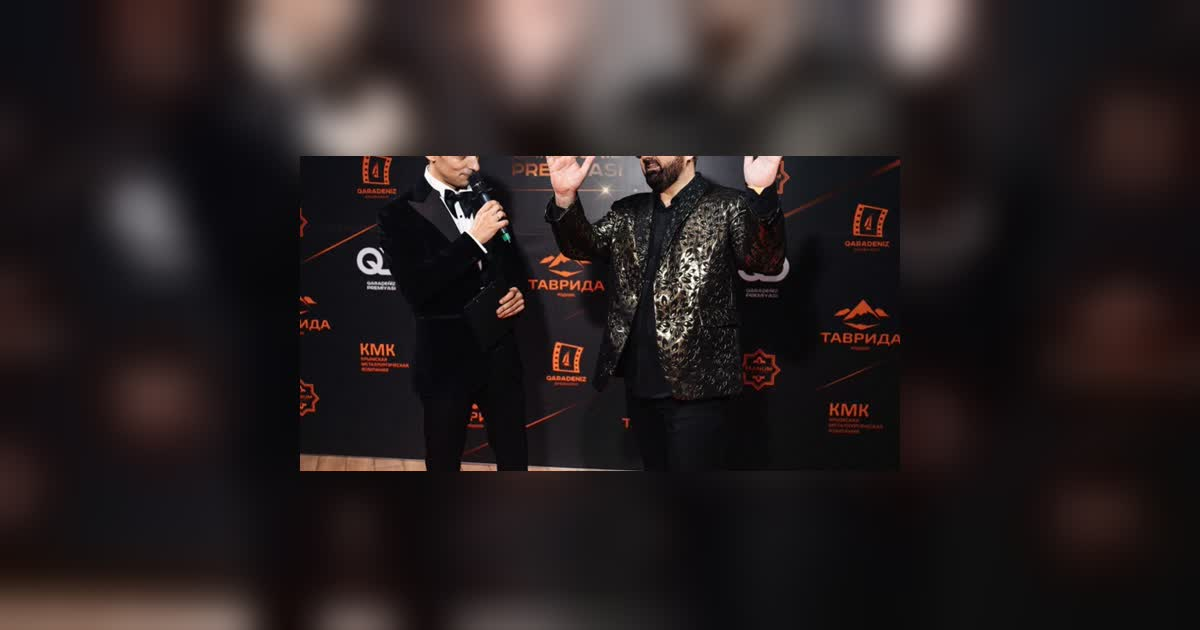
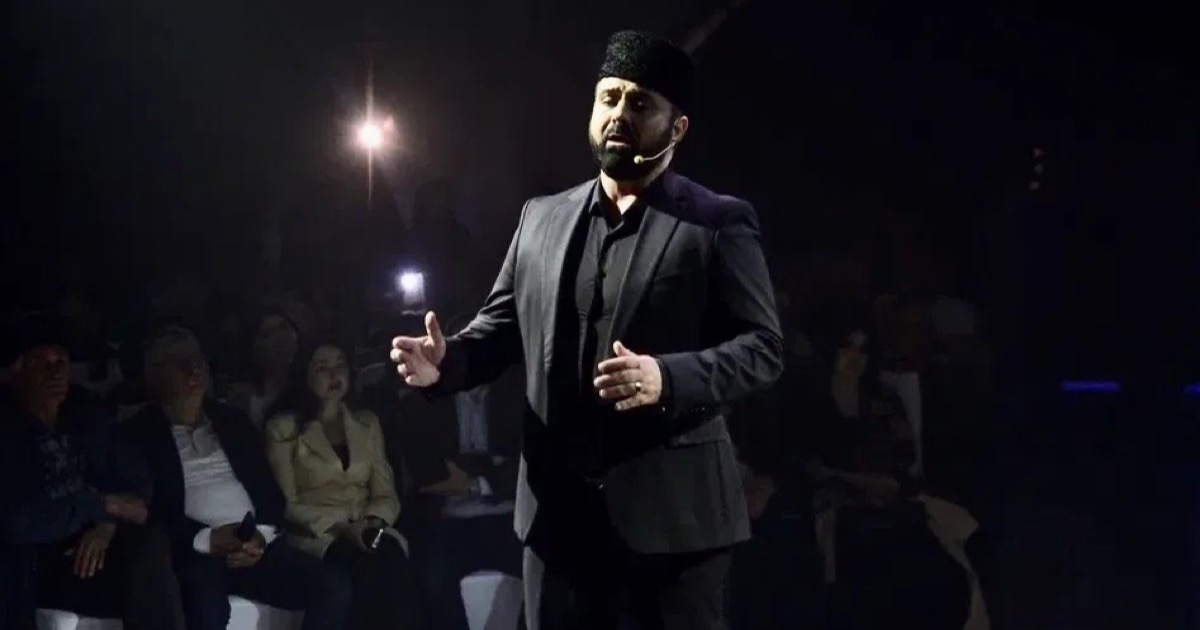
Press photos integration: media/press/ folder with 4 photos (webp+jpg), og-image upgraded from arsen-press-main, photos placed on biography/qirim/press/epk/news (RU+EN), aspect ratio fix, press grid class fix, unused previews deleted

diff --git a/press.html b/press.html
@@ -101,11 +101,11 @@
       <h2>Фото для СМИ</h2>
       <p style="margin-bottom:16px">При использовании указывать: <em>из личного архива Арсена Бекирова</em></p>
       <div class="photo-grid">
-        <div class="photo-item tall" style="background-image:url('/media/bg/IMG_4700.webp')"></div>
-        <div class="photo-item" style="background-image:url('/media/bg/IMG_1580.JPG')"></div>
-        <div class="photo-item wide" style="background-image:url('/media/bg/IMG_1866.JPG')"></div>
+        <div class="photo-item" style="background-image:url('/media/press/arsen-press-main.webp')"></div>
+        <div class="photo-item tall" style="background-image:url('/media/press/arsen-portrait-dark.webp')"></div>
+        <div class="photo-item wide" style="background-image:url('/media/press/arsen-stage-spotlight.webp')"></div>
+        <div class="photo-item" style="background-image:url('/media/press/arsen-award-qaradeniz.webp')"></div>
         <div class="photo-item" style="background-image:url('/media/bg/IMG_4705.webp')"></div>
-        <div class="photo-item" style="background-image:url('/media/bg/KATE3108.webp')"></div>
         <div class="photo-item tall" style="background-image:url('/media/bg/dsc-4275.webp')"></div>
       </div>
 
@@ -125,7 +125,14 @@
       <h2>Downloads</h2>
       <div class="highlight-box">
         <p><strong><i class="fas fa-file-pdf"></i> One-page EPK:</strong> <a href="/epk.html" target="_blank" rel="noopener noreferrer" style="color:var(--gold)">Electronic Press Kit →</a></p>
-        <p><strong><i class="fas fa-image"></i> Фото для СМИ:</strong> <a href="/media/og-image.jpg" target="_blank" rel="noopener noreferrer" style="color:var(--gold)">OG-image (1200×630) →</a></p>
+        <p><strong><i class="fas fa-image"></i> Фото для СМИ (полное разрешение):</strong></p>
+        <p style="margin-top:8px;font-size:14px">
+          <a href="/media/press/arsen-press-main.jpg" target="_blank" style="color:var(--gold)">📸 arsen-press-main.jpg</a> · 
+          <a href="/media/press/arsen-portrait-dark.jpg" target="_blank" style="color:var(--gold)">arsen-portrait-dark.jpg</a> · 
+          <a href="/media/press/arsen-stage-spotlight.jpg" target="_blank" style="color:var(--gold)">arsen-stage-spotlight.jpg</a> · 
+          <a href="/media/press/arsen-award-qaradeniz.jpg" target="_blank" style="color:var(--gold)">arsen-award-qaradeniz.jpg</a>
+        </p>
+        <p><strong><i class="fas fa-image"></i> OG-image:</strong> <a href="/media/og-image.jpg" target="_blank" rel="noopener noreferrer" style="color:var(--gold)">1200×630 →</a></p>
         <details style="margin-top:12px;cursor:pointer">
           <summary style="color:var(--gold);font-weight:500"><i class="fas fa-copy"></i> Копировать короткое био (RU)</summary>
           <p style="margin-top:8px;padding:12px;background:rgba(0,0,0,0.3);border-radius:8px;font-size:14px;line-height:1.6;user-select:all" onclick="navigator.clipboard.writeText(this.textContent)">Арсен Бекиров — крымскотатарский тенор, Заслуженный артист Крыма и Татарстана, солист Крымской государственной филармонии (с 2002) и ансамбля «Къырым». Поёт на шести языках. Автор Qirim EP (2025), лауреат премии QARADENIZ. В 2026 году записал 31 песню с грэмми-продюсером Иэном Бреннаном. Основатель Школы вокала в Симферополе.</p>

diff --git a/en/press.html b/en/press.html
@@ -95,11 +95,11 @@
       <h2>Photos for Media</h2>
       <p style="margin-bottom:16px"><em>Credit: from the personal archive of Arsen Bekirov</em></p>
       <div class="photo-grid">
-        <div class="photo-item tall" style="background-image:url('/media/bg/IMG_4700.webp')"></div>
-        <div class="photo-item" style="background-image:url('/media/bg/IMG_1580.JPG')"></div>
-        <div class="photo-item wide" style="background-image:url('/media/bg/IMG_1866.JPG')"></div>
+        <div class="photo-item" style="background-image:url('/media/press/arsen-press-main.webp')"></div>
+        <div class="photo-item tall" style="background-image:url('/media/press/arsen-portrait-dark.webp')"></div>
+        <div class="photo-item wide" style="background-image:url('/media/press/arsen-stage-spotlight.webp')"></div>
+        <div class="photo-item" style="background-image:url('/media/press/arsen-award-qaradeniz.webp')"></div>
         <div class="photo-item" style="background-image:url('/media/bg/IMG_4705.webp')"></div>
-        <div class="photo-item" style="background-image:url('/media/bg/KATE3108.webp')"></div>
         <div class="photo-item tall" style="background-image:url('/media/bg/dsc-4275.webp')"></div>
       </div>
 
@@ -119,7 +119,14 @@
       <h2>Downloads</h2>
       <div class="highlight-box">
         <p><strong><i class="fas fa-file-pdf"></i> One-page EPK:</strong> <a href="/epk.html" target="_blank" rel="noopener noreferrer" style="color:var(--gold)">Electronic Press Kit →</a></p>
-        <p><strong><i class="fas fa-image"></i> Media photo:</strong> <a href="/media/og-image.jpg" target="_blank" rel="noopener noreferrer" style="color:var(--gold)">OG-image (1200×630) →</a></p>
+        <p><strong><i class="fas fa-image"></i> Media photos (full resolution):</strong></p>
+        <p style="margin-top:8px;font-size:14px">
+          <a href="/media/press/arsen-press-main.jpg" target="_blank" style="color:var(--gold)">📸 arsen-press-main.jpg</a> · 
+          <a href="/media/press/arsen-portrait-dark.jpg" target="_blank" style="color:var(--gold)">arsen-portrait-dark.jpg</a> · 
+          <a href="/media/press/arsen-stage-spotlight.jpg" target="_blank" style="color:var(--gold)">arsen-stage-spotlight.jpg</a> · 
+          <a href="/media/press/arsen-award-qaradeniz.jpg" target="_blank" style="color:var(--gold)">arsen-award-qaradeniz.jpg</a>
+        </p>
+        <p><strong><i class="fas fa-image"></i> OG-image:</strong> <a href="/media/og-image.jpg" target="_blank" rel="noopener noreferrer" style="color:var(--gold)">1200×630 →</a></p>
         <details style="margin-top:12px;cursor:pointer">
           <summary style="color:var(--gold);font-weight:500"><i class="fas fa-copy"></i> Copy short bio (EN)</summary>
           <p style="margin-top:8px;padding:12px;background:rgba(0,0,0,0.3);border-radius:8px;font-size:14px;line-height:1.6;user-select:all" onclick="navigator.clipboard.writeText(this.textContent)">Arsen Bekirov is a Crimean Tatar tenor, Honored Artist of Crimea and Tatarstan, soloist of the Crimean State Philharmonic (since 2002) and of the Qirim ensemble. He performs in six languages. Author of the Qirim EP (2025), QARADENIZ award winner, he recorded 31 songs with Grammy-winning producer Ian Brennan in 2026. Founder of a vocal school in Simferopol.</p>

diff --git a/qirim.html b/qirim.html
@@ -91,6 +91,11 @@
       <h2>Ансамбль «Къырым»</h2>
       <p>Крымскотатарский фольклорный ансамбль «Къырым» создан в 1990 году при Крымской государственной филармонии. Художественный руководитель — Сервер Какура. Репертуар ансамбля включает народные песни, танцевальную музыку и авторские сочинения современных крымскотатарских композиторов.</p>
 
+      <div style="margin:20px 0;text-align:center">
+        <img src="/media/press/arsen-stage-spotlight.webp" alt="Арсен Бекиров на сцене — ансамбль Къырым" loading="lazy" width="800" height="800" style="width:100%;max-width:600px;border-radius:12px;box-shadow:0 4px 20px rgba(0,0,0,0.3)">
+        <div style="margin-top:8px;font-size:13px;color:var(--text-muted)">Арсен Бекиров на сцене с ансамблем «Къырым»</div>
+      </div>
+
       <h2>Проект с Иэном Бреннаном</h2>
       <p>Иэн Бреннан — обладатель премии «Грэмми», продюсер Tinariwen и Zomba Prison Project, известный документальными записями музыки коренных народов и исчезающих традиций по всему миру. В апреле 2026 года в Стамбуле Бреннан и Арсен записали 31 песню, охватывающую полный жизненный цикл крымскотатарской музыкальной традиции — от колыбельных до поминальных плачей.</p>
 

diff --git a/biography.html b/biography.html
@@ -127,6 +127,11 @@
   <section class="content-page with-photo" style="background-image:url('/media/bg/0FD5B334-9F6A-471F-A9F2-63D0022ED2E7.webp');background-position:center 20%">
     <div class="content-body">
       <nav class="breadcrumbs"><a href="/">Главная</a><span class="sep"> → </span><span class="current">Биография</span></nav>
+
+      <div class="bio-photo">
+        <img src="/media/press/arsen-portrait-dark.webp" alt="Арсен Бекиров — кинематографичный портрет" loading="lazy" width="600" height="402" style="width:100%;max-width:500px;border-radius:12px;margin-bottom:24px;box-shadow:0 4px 20px rgba(0,0,0,0.3)">
+      </div>
+
       <p class="lead">Арсен Бекиров — крымскотатарский тенор, Заслуженный артист Республики Крым и Республики Татарстан, солист Крымской государственной филармонии и легендарного крымскотатарского фольклорного ансамбля «Къырым».</p>
 
       <p>Путь в музыке начался в пять лет — с первого выхода на сцену. С 2002 года Арсен — солист Крымской государственной филармонии. В 2005 году окончил музыкальное училище, в 2010 — Донецкую государственную музыкальную академию (консерваторию) по классу вокала.</p>

diff --git a/epk.html b/epk.html
@@ -90,6 +90,9 @@
 
   <div class="epk-hero">
     <div class="epk-badge"><i class="fas fa-microphone-alt"></i>  Electronic Press Kit</div>
+    <div style="margin-bottom:20px">
+      <img src="/media/press/arsen-press-main.webp" alt="Arsen Bekirov — main press photo" style="width:180px;height:180px;border-radius:50%;object-fit:cover;border:3px solid rgba(212,175,55,0.3);box-shadow:0 4px 20px rgba(0,0,0,0.4)">
+    </div>
     <h1>Arsen Bekirov</h1>
     <div class="role">Crimean Tatar Tenor</div>
     <div class="sub">Honored Artist of the Republic of Crimea &amp; the Republic of Tatarstan</div>
@@ -109,6 +112,10 @@
       <div class="epk-fact"><strong>💿 Qirim EP (2025)</strong>9 original tracks — ethno-pop, world music</div>
       <div class="epk-fact"><strong>🎬 QARADENIZ Production Award</strong>Best music video for "Seni Seven" (2025)</div>
       <div class="epk-fact"><strong>🎙 31 songs with Ian Brennan</strong>Recorded in Istanbul 2026 with Grammy-winning producer</div>
+      <div class="epk-fact" style="grid-column:1/-1;text-align:center;padding:10px">
+        <img src="/media/press/arsen-award-qaradeniz.webp" alt="Arsen with QARADENIZ award" style="height:120px;border-radius:8px;margin-right:12px;vertical-align:middle">
+        <span style="vertical-align:middle">🏆 <strong>QARADENIZ Production Award</strong> — awarded for "Seni Seven" music video</span>
+      </div>
       <div class="epk-fact"><strong>🌍 6 languages</strong>Crimean Tatar, Russian, Ukrainian, English, Turkish, Greek</div>
     </div>
 

diff --git a/en/qirim.html b/en/qirim.html
@@ -90,6 +90,11 @@
       <h2>Qirim Ensemble</h2>
       <p>The Crimean Tatar folk ensemble Qirim was founded in 1990 under the Crimean State Philharmonic, with artistic director Server Kakura. Its repertoire includes traditional folk songs, dance music, and original compositions by contemporary Crimean Tatar composers.</p>
 
+      <div style="margin:20px 0;text-align:center">
+        <img src="/media/press/arsen-stage-spotlight.webp" alt="Arsen Bekirov on stage — Qirim ensemble" loading="lazy" width="800" height="800" style="width:100%;max-width:600px;border-radius:12px;box-shadow:0 4px 20px rgba(0,0,0,0.3)">
+        <div style="margin-top:8px;font-size:13px;color:var(--text-muted)">Arsen Bekirov on stage with the Qirim ensemble</div>
+      </div>
+
       <h2>Ian Brennan Project</h2>
       <p>Ian Brennan is a Grammy-winning producer known for his work with Tinariwen and the Zomba Prison Project, and for his documentary field recordings of indigenous and endangered musical traditions worldwide. In April 2026, in Istanbul, Brennan and Arsen recorded 31 songs spanning the complete life cycle of Crimean Tatar musical tradition — from lullabies to funeral laments.</p>
 

diff --git a/news.html b/news.html
@@ -129,6 +129,10 @@
         <div class="news-title">Qirim EP вышел на всех площадках</div>
         <div class="news-text">
           <p>Дебютный сольный EP «Qirim» — девять авторских треков, соединяющих крымскотатарскую мелодику с современным этно-поп звучанием. Клип на песню «Seni Seven» получил премию QARADENIZ Production. Релиз доступен на YouTube Music, Spotify, VK Музыке и других платформах.</p>
+          <div style="margin-top:16px">
+            <img src="/media/press/arsen-award-qaradeniz.webp" alt="Арсен Бекиров с премией QARADENIZ Production" loading="lazy" style="width:100%;max-width:500px;border-radius:12px;box-shadow:0 4px 20px rgba(0,0,0,0.3)">
+            <div style="margin-top:6px;font-size:13px;color:var(--text-muted)">Арсен Бекиров с наградой QARADENIZ Production</div>
+          </div>
         </div>
       </div>
 

diff --git a/en/biography.html b/en/biography.html
@@ -85,6 +85,11 @@
   <section class="content-page">
     <div class="content-body">
       <nav class="breadcrumbs"><a href="/en/">Home</a><span class="sep"> → </span><span class="current">Biography</span></nav>
+
+      <div class="bio-photo">
+        <img src="/media/press/arsen-portrait-dark.webp" alt="Arsen Bekirov — dramatic portrait" loading="lazy" width="600" height="402" style="width:100%;max-width:500px;border-radius:12px;margin-bottom:24px;box-shadow:0 4px 20px rgba(0,0,0,0.3)">
+      </div>
+
       <p class="lead">Arsen Bekirov is a Crimean Tatar tenor, Honored Artist of the Republic of Crimea and the Republic of Tatarstan, and a soloist of the Crimean State Philharmonic and of the legendary Crimean Tatar folk ensemble Qirim.</p>
 
       <p>He first stepped on stage at the age of five. Since 2002 he has been a soloist of the Crimean State Philharmonic. He graduated from music college in 2005 and from the Donetsk State Academy of Music (conservatory) in 2010, specializing in vocal performance.</p>

diff --git a/en/news.html b/en/news.html
@@ -128,6 +128,10 @@
         <div class="news-title">Qirim EP released on all platforms</div>
         <div class="news-text">
           <p>Arsen's debut solo EP "Qirim" — nine original tracks bridging Crimean Tatar melodic tradition with contemporary ethno-pop. The music video for "Seni Seven" received the QARADENIZ Production award. The release is available on YouTube Music, Spotify, VK Music and other platforms.</p>
+          <div style="margin-top:16px">
+            <img src="/media/press/arsen-award-qaradeniz.webp" alt="Arsen Bekirov with QARADENIZ Production award" loading="lazy" style="width:100%;max-width:500px;border-radius:12px;box-shadow:0 4px 20px rgba(0,0,0,0.3)">
+            <div style="margin-top:6px;font-size:13px;color:var(--text-muted)">Arsen Bekirov with the QARADENIZ Production award</div>
+          </div>
         </div>
       </div>
 
